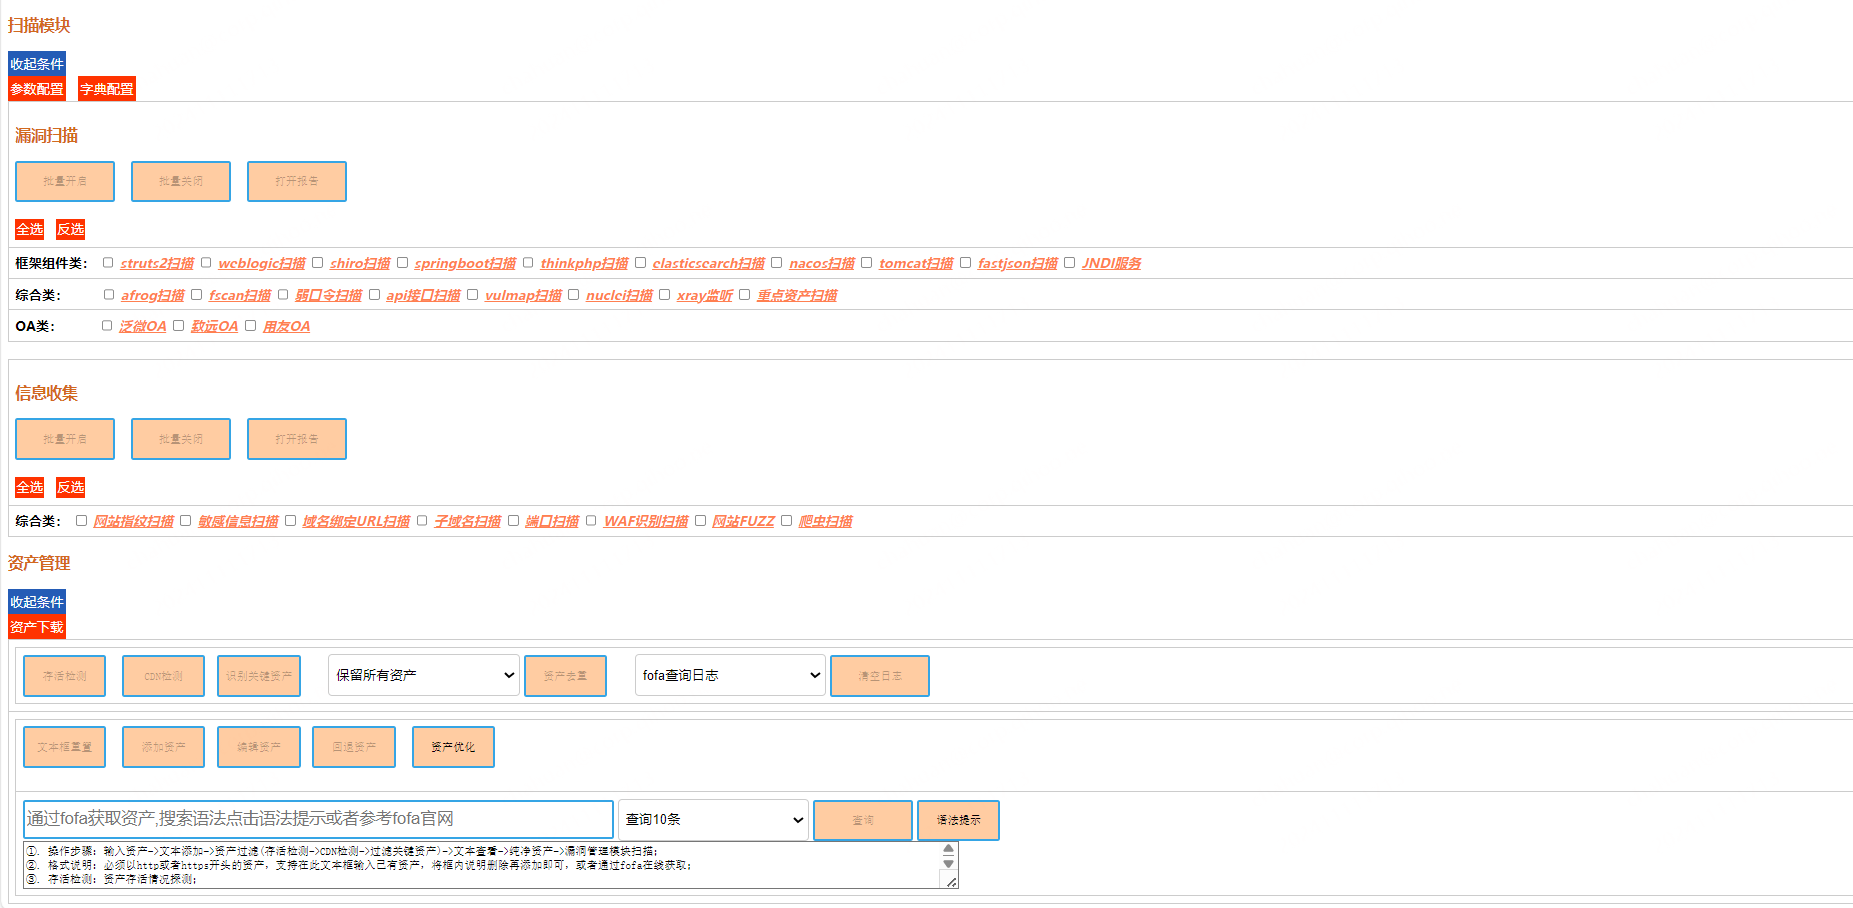
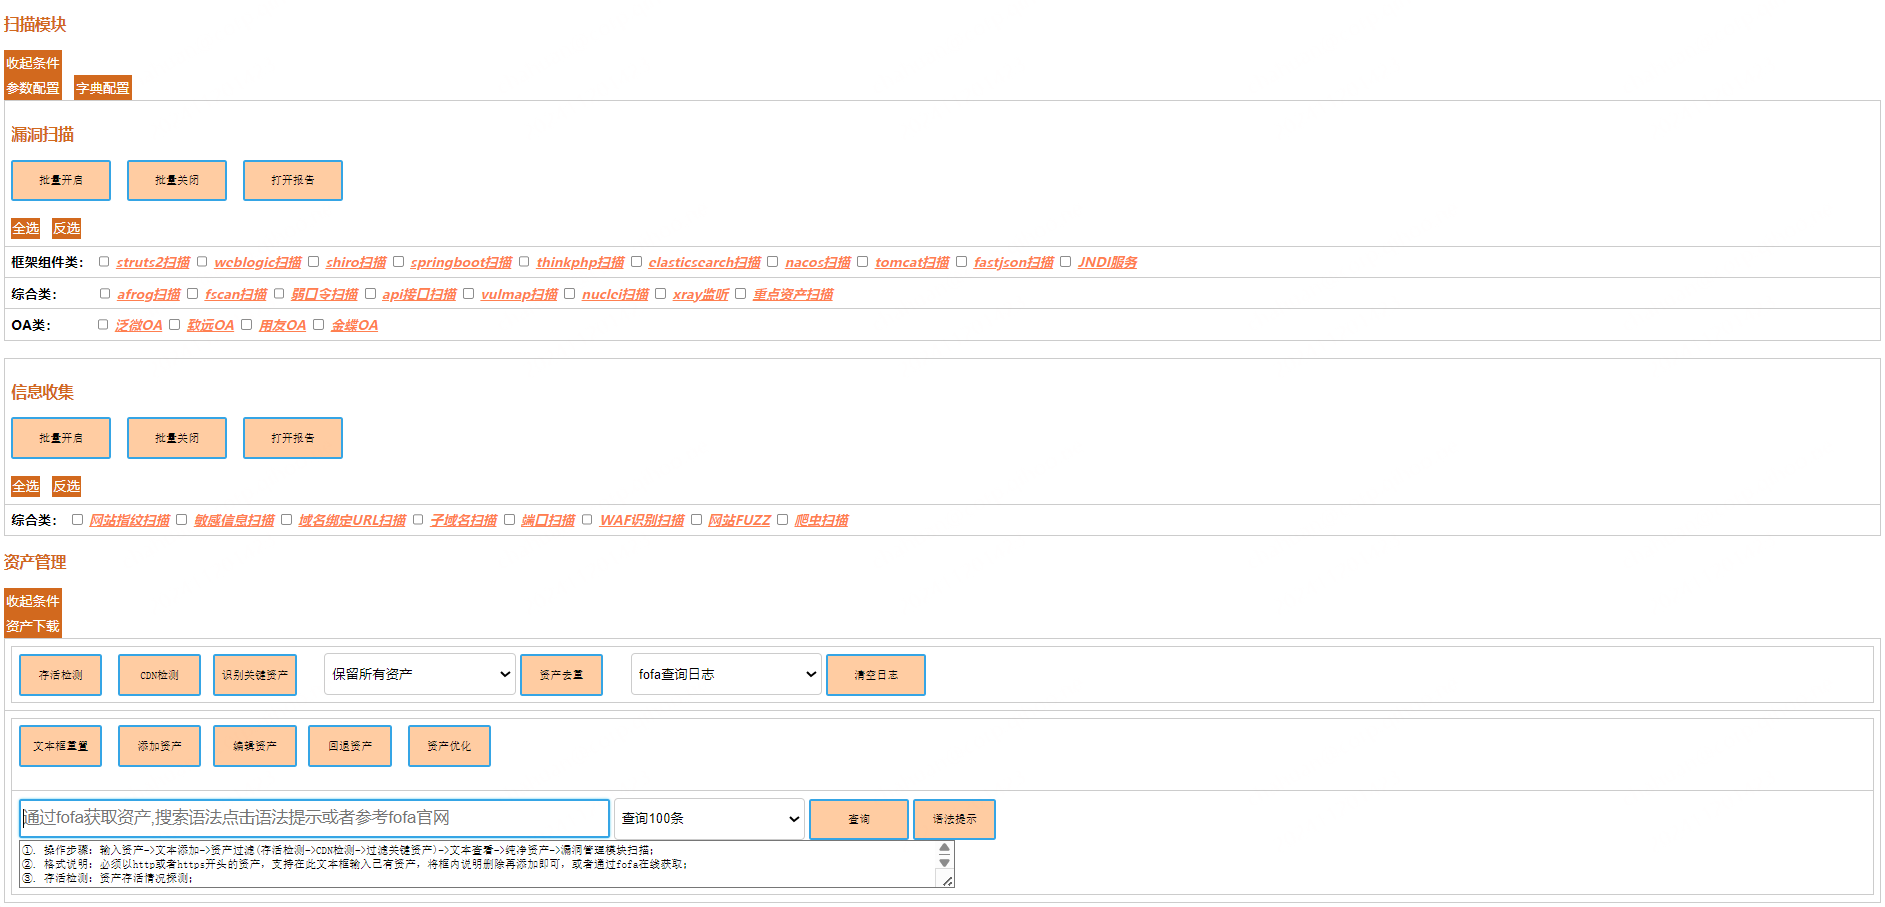
系统优化

diff --git a/static/js/common.js b/static/js/common.js
@@ -272,7 +272,7 @@ function assetsbackspacefunc() {
             alert('内部错误')
         },
         complete: function () {
-            
+
         }
     })
 }
@@ -905,7 +905,7 @@ function fofa_search_assets_func() {
         },
         success: function (info) {
             // 当请求成功时调用  
-            alert(info.asset_len_list);
+            document.getElementById("routestatus3").innerHTML = info.asset_len_list;
 
         },
         error: function () {
@@ -914,13 +914,18 @@ function fofa_search_assets_func() {
         complete: function () {
 
         }
+
     })
+
+
 
     // 路由状态查询
     function routestatus() {
         $.getJSON("/inter_route_status/",
             function (info) {
-                document.getElementById("routestatus1").innerHTML = info.fofa_status;
+                document.getElementById("routestatus1").innerHTML = info.fofa_status1;
+                document.getElementById("routestatus2").innerHTML = info.fofa_status2;
+               
             });
     }
     // 调用routestatus函数初始化显示
@@ -1009,6 +1014,27 @@ function shuaixuanrule() {
 function fanhuishuaixuanrule() {
     var idp1 = document.getElementById("idp1");
     idp1.style.display = "none";
+
+}
+
+// 初始状态
+function yincangtishifun() {
+    var routestatus1 = document.getElementById("routestatus1");
+    routestatus1.style.display = "none";
+    var routestatus2 = document.getElementById("routestatus2");
+    routestatus2.style.display = "none";
+    var routestatus3 = document.getElementById("routestatus3");
+    routestatus3.style.display = "none";
+
+    document.getElementById('vulnid1').style.display = "block";
+    document.getElementById('vulnid3').style.display = "block";
+    document.getElementById('vulnid2').style.display = "none";
+
+
+    document.getElementById('assetid1').style.display = "block";
+    document.getElementById('assetid3').style.display = "block";
+    document.getElementById('assetid2').style.display = "none";
+
 
 }
 
@@ -1310,7 +1336,7 @@ function vulnxuanzhongscan() {
         // 期望服务器返回的数据类型
         dataType: 'json',
         success: function (info) {
-            alert(info.struts2status_result + "\n" + info.weblogic_status_result + "\n" + info.shiro_status_result + "\n" + info.springboot_scan_status_result + "\n" + info.thinkphp_status_result + "\n" + info.start_afrog_result + "\n" + info.fscan_status_result + "\n" + info.hydra_scan_result + "\n" + info.urlfinder_status_result + "\n" + info.vummap_scan_result + "\n" + info.nuclei_status_result + "\n" + info.weaver_status_result + "\n" + info.point_all_result + "\n" + info.es_status_result + "\n" + info.nacos_status_result + "\n" + info.tomcat_status_result + "\n" + info.jndi_status_result + "\n" + info.fastjson_status_result + "\n" + info.xray_status_result+"\n"+info.seeyon_status_result+"\n"+info.yonsuite_status_result+"\n"+info.kingdee_status_result)
+            alert(info.struts2status_result + "\n" + info.weblogic_status_result + "\n" + info.shiro_status_result + "\n" + info.springboot_scan_status_result + "\n" + info.thinkphp_status_result + "\n" + info.start_afrog_result + "\n" + info.fscan_status_result + "\n" + info.hydra_scan_result + "\n" + info.urlfinder_status_result + "\n" + info.vummap_scan_result + "\n" + info.nuclei_status_result + "\n" + info.weaver_status_result + "\n" + info.point_all_result + "\n" + info.es_status_result + "\n" + info.nacos_status_result + "\n" + info.tomcat_status_result + "\n" + info.jndi_status_result + "\n" + info.fastjson_status_result + "\n" + info.xray_status_result + "\n" + info.seeyon_status_result + "\n" + info.yonsuite_status_result + "\n" + info.kingdee_status_result)
         },
 
         error: function (info) {
@@ -1472,7 +1498,7 @@ function vulnxuanzhongstopscanfunc() {
         // 期望服务器返回的数据类型
         dataType: 'json',
         success: function (info) {
-            alert(info.kill_struts2_result + "\n" + info.kill_weblogic_result + "\n" + info.kill_shiro_result + "\n" + info.kill_springboot_result + "\n" + info.kill_thinkphp_result + "\n" + info.kill_afrog_result + "\n" + info.kill_fscan_result + "\n" + info.kill_hydra_result + "\n" + info.kill_urlfinder_result + "\n" + info.kill_vulmap_result + "\n" + info.kill_nuclei_result + "\n" + info.kill_weaver_result + "\n" + info.kill_point_assset_result + "\n" + info.kill_es_result + "\n" + info.kill_nacos_result + "\n" + info.kill_tomcat_result + "\n" + info.kill_jndi_result + "\n" + info.kill_fastjson_result+"\n"+info.kill_seeyon_result+"\n"+info.kill_yonsuite_result+"\n"+info.kill_kingdee_result)
+            alert(info.kill_struts2_result + "\n" + info.kill_weblogic_result + "\n" + info.kill_shiro_result + "\n" + info.kill_springboot_result + "\n" + info.kill_thinkphp_result + "\n" + info.kill_afrog_result + "\n" + info.kill_fscan_result + "\n" + info.kill_hydra_result + "\n" + info.kill_urlfinder_result + "\n" + info.kill_vulmap_result + "\n" + info.kill_nuclei_result + "\n" + info.kill_weaver_result + "\n" + info.kill_point_assset_result + "\n" + info.kill_es_result + "\n" + info.kill_nacos_result + "\n" + info.kill_tomcat_result + "\n" + info.kill_jndi_result + "\n" + info.kill_fastjson_result + "\n" + info.kill_seeyon_result + "\n" + info.kill_yonsuite_result + "\n" + info.kill_kingdee_result)
         },
 
         error: function (info) {
@@ -1588,9 +1614,9 @@ function vulnscanxuanzhongreportyulan() {
             window.open("/fastjson_report_show/", "_blank");
         } else if (vuln_front_list[i] == 'j') {
             window.open(ipvalue + ":18888/", "_blank");
-        }else if (vuln_front_list[i] == 'k') {
+        } else if (vuln_front_list[i] == 'k') {
             window.open("/seeyonreportyulan/", "_blank");
-        }else if (vuln_front_list[i] == 'l') {
+        } else if (vuln_front_list[i] == 'l') {
             window.open("/yonsuitereportyulan/", "_blank");
         }
         else if (vuln_front_list[i] == 'm') {

diff --git a/templates/index.html b/templates/index.html
@@ -13,7 +13,9 @@
 
 <body>
 	<span align="left">欢迎访问漏洞扫描平台！</span> <span align="right">登录用户：{{data20}}</span><br><br>
-	<a href="###" onclick="jumpdirscanpage()" style="text-decoration: none;">目录扫描</a>
+	<span class="my-spanconfig11" onclick="jumpdirscanpage()">目录扫描</span>&nbsp;&nbsp;
+	<span class="my-spanconfig11" onclick="yincangtishifun()">初始状态</span>&nbsp;&nbsp;
+	
 	<table border="1">
 		<tr>
 			<td>
@@ -65,6 +67,8 @@
 				<span id="tishisp9" style="display: none; color: chocolate;">系统管理</span>
 				<span id="tishisp9a" style="display: none; color: chocolate;">注销系统</span>
 				<span id="tishisp9b" style="display: none; color: chocolate;">系统软重启</span>
+
+				<span id="routestatus4" style="color: chocolate;"></span>
 
 			</td>
 		</tr>
@@ -910,12 +914,12 @@ poc显示区域</textarea>
 	<h3>扫描模块</h3>
 
 	
-		<span onclick="vulnmanagerzhankaifunc()" id="vulnid2" style="cursor: pointer;" class="zhankaizhedie">展开条件</span>
-		<span onclick="vulnmanagerzhediefunc()" id="vulnid3" style="display:none; cursor: pointer;" class="zhankaizhedie">收起条件</span>
+		<span onclick="vulnmanagerzhankaifunc()" id="vulnid2" style="cursor: pointer;" class="my-spanconfig11">展开条件</span>
+		<span onclick="vulnmanagerzhediefunc()" id="vulnid3" style="display:none; cursor: pointer;" class="my-spanconfig11">收起条件</span>
 		<div style="display:none;" id="vulnid1">
 			<span onclick="startscanconfigpagefunc()" style="cursor: pointer;"
-				class="my-spanconfig">参数配置</span>&nbsp;&nbsp;
-			<span onclick="hydradictfunc()" style="cursor: pointer;" class="my-spanconfig">字典配置</span>
+				class="my-spanconfig11">参数配置</span>&nbsp;&nbsp;
+			<span onclick="hydradictfunc()" style="cursor: pointer;" class="my-spanconfig11">字典配置</span>
 			<table style=" border: 2px solid red ; border-collapse: collapse;">
 				<tr>
 					<td colspan="2">
@@ -1044,10 +1048,10 @@ poc显示区域</textarea>
 		</div>
 		
 		<h3>资产管理</h3>
-		<span onclick="assetmanagerzhankaifunc()" id="assetid2" style="cursor: pointer;" class="zhankaizhedie">展开条件</span>
-		<span onclick="assetmanagerzhediefunc()" id="assetid3" style="display:none;cursor: pointer;" class="zhankaizhedie">收起条件</span>
+		<span onclick="assetmanagerzhankaifunc()" id="assetid2" style="cursor: pointer;" class="my-spanconfig11">展开条件</span>
+		<span onclick="assetmanagerzhediefunc()" id="assetid3" style="display:none;cursor: pointer;" class="my-spanconfig11">收起条件</span>
 			<div style="display:none;" id="assetid1">
-				<span class="my-spanconfig" onclick="assetdownloadfunc()">资产下载</span>
+				<span class="my-spanconfig11" onclick="assetdownloadfunc()">资产下载</span>
 				
 				<table border="1" style=" border: 2px solid red ; border-collapse: collapse;">
 					<tr>
@@ -1122,7 +1126,10 @@ poc显示区域</textarea>
 											id="button83" disabled>
 
 										<input type="button" value="语法提示" onclick="fofayufa()">&nbsp;&nbsp;
-										<span id="routestatus1" class="routestatus"></span>
+										<span id="routestatus1" style="color: greenyellow;"></span>
+										<span id="routestatus2"  style="color: red;"></span>
+										
+										<span id="routestatus3" style="color: lightblue;"></span>
 										<br>
 
 										<textarea rows="3" cols="152" id="myTextarea">

diff --git a/static/css/common.css b/static/css/common.css
@@ -350,7 +350,7 @@
 			/* 使span可以设置宽高 */
 			width: 35px;
 			height: 25px;
-			background-color: rgb(255, 51, 0);
+			background-color:  chocolate;
 			/* 背景颜色设置为橙色 */
 			color: white;
 			/* 文本颜色设置为白色，以便在橙色背景上可见 */
@@ -393,13 +393,14 @@
 			line-height: 25px;
 		}
 
-		.my-spanconfig {
+
+		.my-spanconfig11 {
 			display: inline-block;
 			/* 使span可以设置宽高 */
 			width: 70px;
 			height: 30px;
 			line-height: 30px;
-			background-color: rgb(255, 51, 0);
+			background-color:  chocolate;
 			/* 背景颜色设置为橙色 */
 			color: white;
 			/* 文本颜色设置为白色，以便在橙色背景上可见 */
@@ -413,28 +414,4 @@
 			text-decoration: underline;
 			font-style: italic;
 			cursor: pointer;
-		}
-
-		.zhankaizhedie {
-			display: inline-block;
-			/* 使span可以设置宽高 */
-			width: 70px;
-			height: 30px;
-			background-color: rgb(36, 92, 182);
-			/* 背景颜色设置为橙色 */
-			color: white;
-			/* 文本颜色设置为白色，以便在橙色背景上可见 */
-			text-align: center;
-			cursor: pointer;
-			line-height: 30px;
-		}
-
-		.routestatus {
-			color: #fff;
-			background: -webkit-linear-gradient(45deg, #ff9a9e, #fad0c4, #fad0c4, #ff9a9e);
-			-webkit-background-clip: text;
-			-webkit-text-fill-color: transparent;
-			background-clip: text;
-			text-fill-color: transparent;
-			animation: glow 3s infinite alternate;
 		}

diff --git a/scan_main_web.py b/scan_main_web.py
@@ -1106,11 +1106,14 @@ def inter_route_status():
     if str(user) == main_username:
         fofa_status = basic.route_status_show_lib(1)
         if int(fofa_status) == 0:
-            fofa_status_result = "资产正在收集中"
+            fofa_status_result1 = "资产正在收集中"
+            fofa_status_result2 = ""
         elif int(fofa_status) == 1:
-            fofa_status_result = "资产已收集完"
+            fofa_status_result1 = ""
+            fofa_status_result2 = "资产已收集完"
         message_json = {
-            "fofa_status":fofa_status_result
+            "fofa_status1":fofa_status_result1,
+            "fofa_status2":fofa_status_result2
         }
         return jsonify(message_json)
     else:
